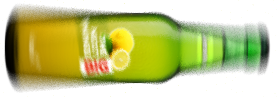
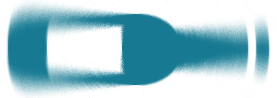
Seriously, anche il gioco adesso?

diff --git a/iPhone/B2B/www/app/view/View_BottleSpinner.js b/iPhone/B2B/www/app/view/View_BottleSpinner.js
@@ -6,15 +6,20 @@ Ext.define('B2B.view.View_BottleSpinner', {
 		iconCls: 'drink_beerbottle',
 		styleHtmlContent: true,
        // cls: 'slidableToolbar',
+       layout: {type:'fit',align:'stretch'},
+       items: [
+            {
+                xtype: 'container',
+                id: 'bottlegame',
+                flex:1,
+                html: [
+                    '<div id="rules" >',
+                        '<p>RULES ARE EASY</p>',
+                    '</div>',
+                ].join("")
+            }
+       ]
 
-		html: [
-			'<div id="game" style="display: block; ">',
-                '<p id="old"></p>',
-                '<div id="shadow"> </div>',
-                '<div id="bottle" class="normal"> </div>',
-                '<div id="spintext" class="spinin"></div>',
-            '</div>',
-		].join("")
 	},
 	initialize: function(){
         
@@ -33,98 +38,83 @@ Ext.define('B2B.view.View_BottleSpinner', {
             }
         };
 
-        this.add([viewbottlespinnertoolbar]);
+        var button = {
+            xtype: 'button',
+            docked: 'bottom',
+            id: "startgamebutton",
+            label: "START",
+            height: 100,
+            handler: this.startGame
+        }
 
-        /* SPIN BOTTLE */
+        this.add([viewbottlespinnertoolbar, button]);
+    },
+    startGame: function(){
 
-        var bottle,
-            shadow,
-            spintext;
-        var timer_rot = 0; // timeout for bottle rotation
-        var rot = 0.0;   // current rotation angle, rad
-        var step;        // delta for rotation
-        var count;       // how many times repeat before change of step
-        var tdelta = 20; // timer interval
+        var playground = Ext.getCmp('bottlegame');
+        playground.setHtml([
+                    '<div id="playground" style="display: block; ">',
+                        '<div id="shadow"> </div>',
+                        '<div id="bottle" class="normal"> </div>',
+                    '</div>',
+                ].join(""));
+
+        var bottle = document.getElementById("bottle"),
+            shadow = document.getElementById("shadow");
+            what = document.getElementById("bottlegame");
+        var timer_rot = 0;
+        var rot = 0.0;
+        var step;
+        var count;
+        var tdelta = 20;
         var oldangle1 = 0;
         var oldangle2 = 0;
         var oldangle3 = 0;
         var centerx = 160;
         var centery = 150;
+        var spintimer = 1;
+        var currentWidth = 0;
+        
 
-        function main() {
-            bottle = Ext.get("bottle");
-            shadow = Ext.get("shadow");
-            spintext = Ext.get("spintext");
-
-            startspin(1000);
-            setTimeout(startTouch, 3000);
-            setInterval(updateLayout, 500);
+        what.ontouchstart = function(e) {
+            oldangle1 = 0; oldangle2 = 0; oldangle3 = 0;
         }
 
-        function startTouch() {
+        what.ontouchmove = function(e) {
+            e.preventDefault();
+            if (timer_rot != 0) return;
 
-            me.ontouchstart = function(e) {
-                oldangle1 = 0; oldangle2 = 0; oldangle3 = 0;
-                cancelspin();
-            }
+            var touch = e.touches[0];
+            var dx = centerx - touch.pageX;
+            var dy = centery - touch.pageY;
+            var angle = Math.atan2(dy, dx);
 
-            me.ontouchmove = function(e) {
+            oldangle3 = angle;
+            oldangle1 = oldangle2;
+            oldangle2 = oldangle3;
 
-                e.preventDefault();
-
-                if (timer_rot != 0)
-                    return;
-
-                var touch = e.touches[0]; // finger 1
-                var dx = centerx - touch.pageX;
-                var dy = centery - touch.pageY;
-                var angle = Math.atan2(dy, dx);
-
-                oldangle3 = angle;
-                oldangle1 = oldangle2;
-                oldangle2 = oldangle3;
-
-                var val = "rotateZ(" + angle + "rad)";
-                bottle.style.webkitTransform = val;
-                shadow.style.webkitTransform = val;
-                rot = angle;
-            }
-            me.ontouchend = function(e){
-                if (timer_rot == 0) {
-                    var val = ((oldangle2 - oldangle1) + (oldangle3 - oldangle2)) / 2;
-                    val /= 3;
-                    if (val == 0.0)
-                        val = rand(0.3)+0.2;
-                    else if (Math.abs(val) < 0.3)
-                        val *= 3;
-                    startanim(val);
+            var val = "rotateZ(" + angle + "rad)";
+            bottle.style.webkitTransform = val;
+            shadow.style.webkitTransform = val;
+            rot = angle;
+        }
+        what.ontouchend = function(e){
+            if (timer_rot == 0) {
+                var val = ((oldangle2 - oldangle1) + (oldangle3 - oldangle2)) / 2;
+                val /= 3;
+                if (val == 0.0){
+                    val = Math.random()*0.3+0.2;
                 }
+                else if (Math.abs(val) < 0.3){
+                    val *= 3;
+                }
+                count = 40;
+                step = val;
+                timer_rot = setTimeout(stepfunc, tdelta);
+                bottle.className = "normal blurred";
             }
         }
 
-        function stopTouch() {
-            me.ontouchstart = null;
-            me.ontouchmove = null;
-            me.ontouchend = null;
-        }
-
-        function elm(id) {
-            return document.getElementById(id);
-        }
-        function hide(e) {
-            elm(e).style.display = 'none';
-        }
-        function show(e) {
-            elm(e).style.display = 'block';
-        }
-
-        function startanim(startstep) {
-            count = 40;
-            step = startstep;
-            timer_rot = setTimeout(stepfunc, tdelta);
-
-            bottle.className = "normal blurred";
-        }
         function stepfunc() {
             rot += step;
             var val = "rotateZ(" + rot + "rad)";
@@ -135,57 +125,32 @@ Ext.define('B2B.view.View_BottleSpinner', {
                 count = 10;
                 step = step - step/4;
             }
-            if (Math.abs(step) < 0.003)
-                stopanim();
-            else
+            if (Math.abs(step) < 0.003){
+                bottle.className = "normal";
+                timer_rot = 0;
+            }
+            else{
                 setTimeout(stepfunc, tdelta);
+            }
         }
 
-        function stopanim() {
-            bottle.className = "normal";
-            timer_rot = 0;
-        }
-        function rand(maxnum) {
-            return Math.random()*maxnum;
-        }
-
-        var spintimer = 1;
-        function startspin(t) {
-            spintext.style.display = 'none';
-            spintimer = setTimeout(function() {
-                show("spintext");
-                spintext.className = "spinin";
-                spintimer = 0;
-            }, t);
-        }
-        function cancelspin() {
-            spintext.style.display = 'none';
-            if (spintimer != 0)
-                clearTimeout(spintimer);
-        }
-        function spinout() {
-            spintext.className = "spinout";
-        }
-
-        // detect orientation change, called periodically
-        var currentWidth = 0;
+        
         function updateLayout() {
           if (window.innerWidth != currentWidth) {
             currentWidth = window.innerWidth;
             window.scrollTo(0, 1);
-            centerbottle();
-          }
-        };
-
-        function centerbottle() {
             centerx = window.innerWidth/2;
             centery = window.innerHeight/2;
             var x = (centerx - 150);
-            var y = (centery - 50);
+            var y = (centery - 150);
             bottle.style.left = x + "px";
             bottle.style.top = y + "px";
             shadow.style.left = (x+8) + "px";
             shadow.style.top = (y+15) + "px";
-        }
+          }
+        };
+
+        updateLayout()
+        //setInterval(updateLayout, 500);
     }
 });
